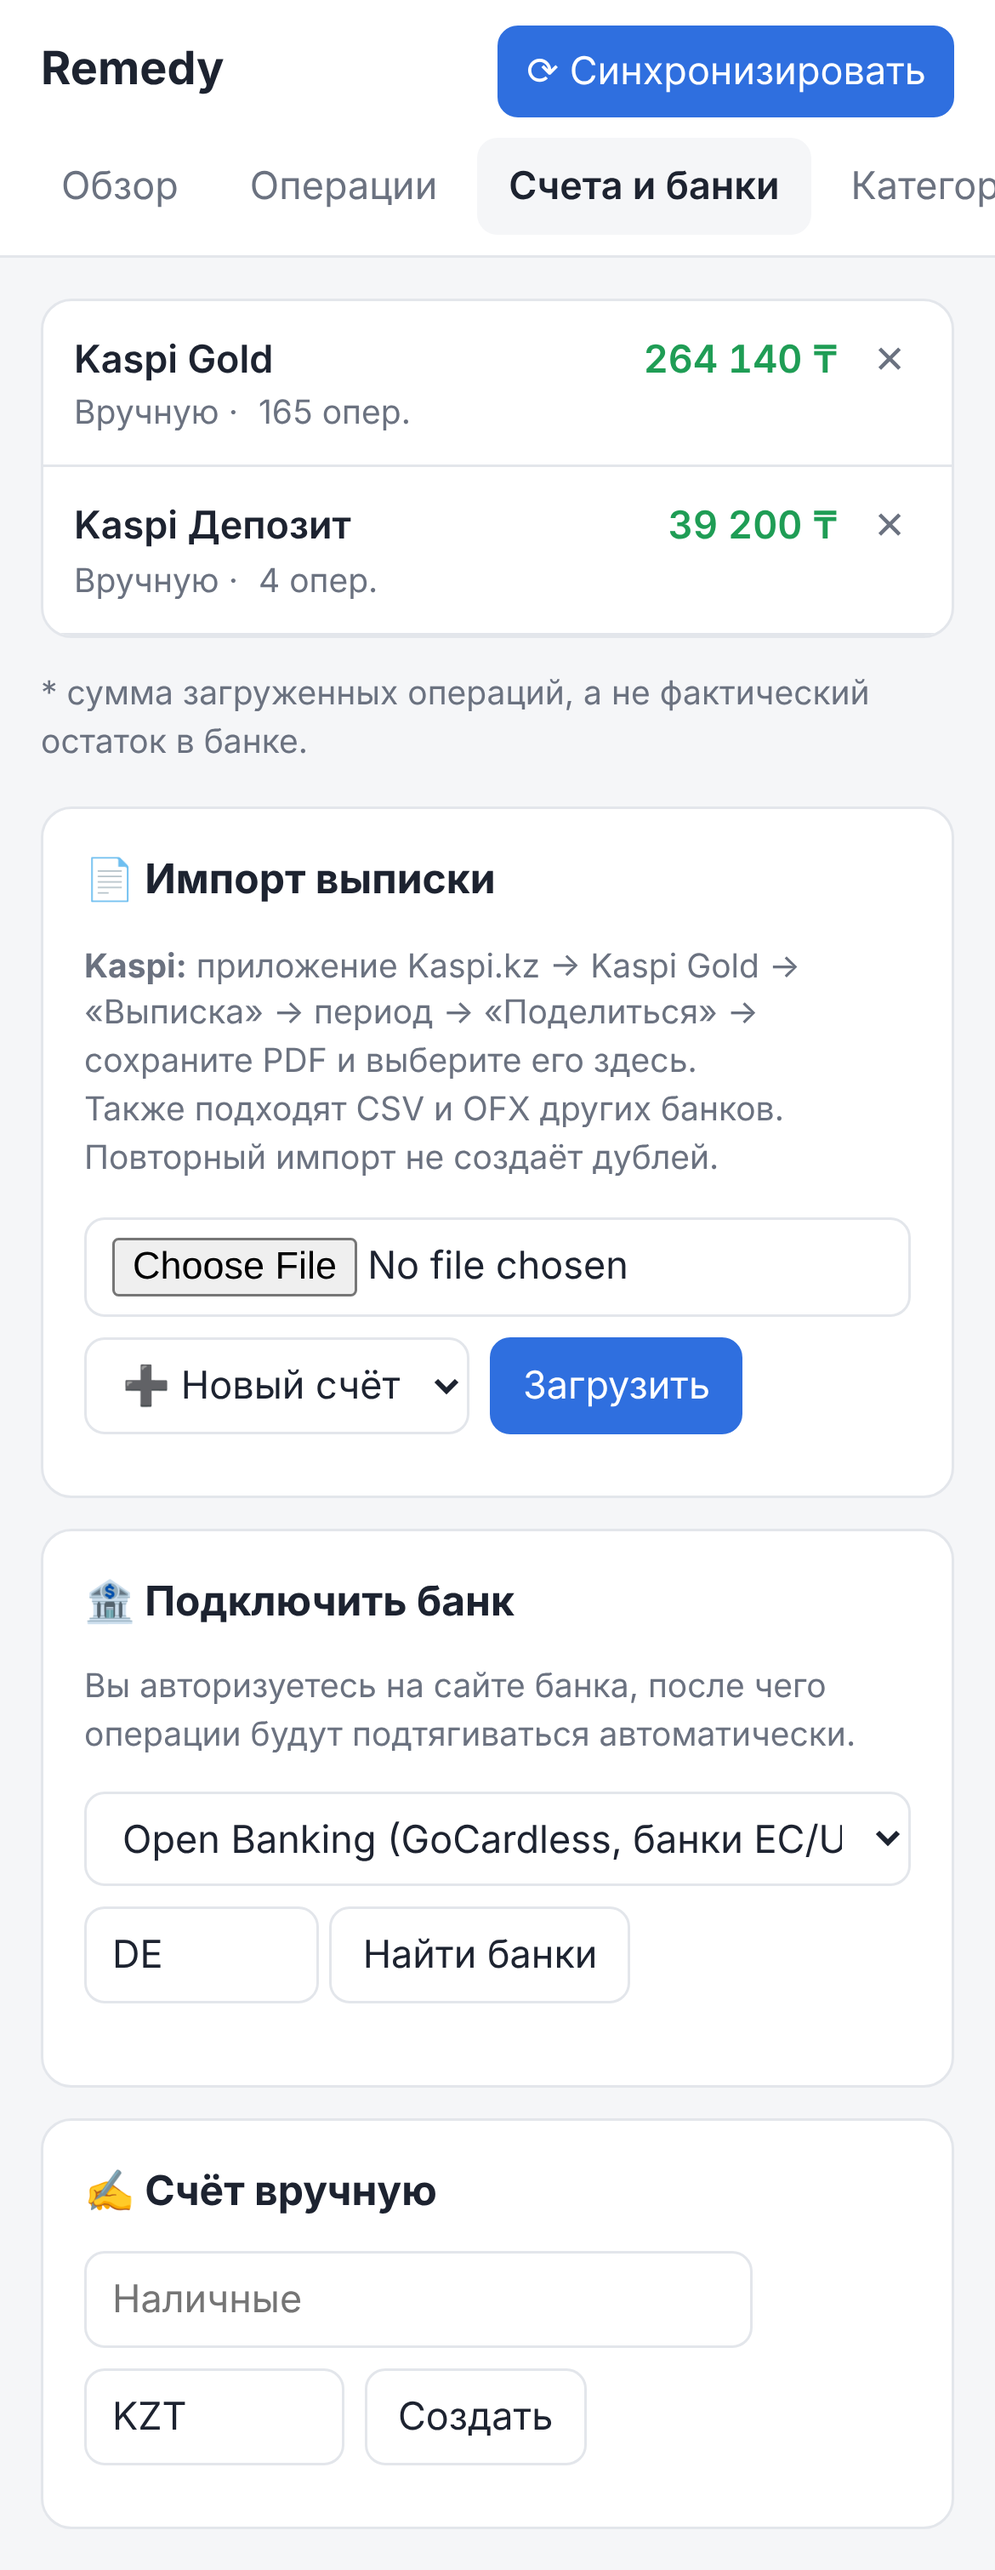
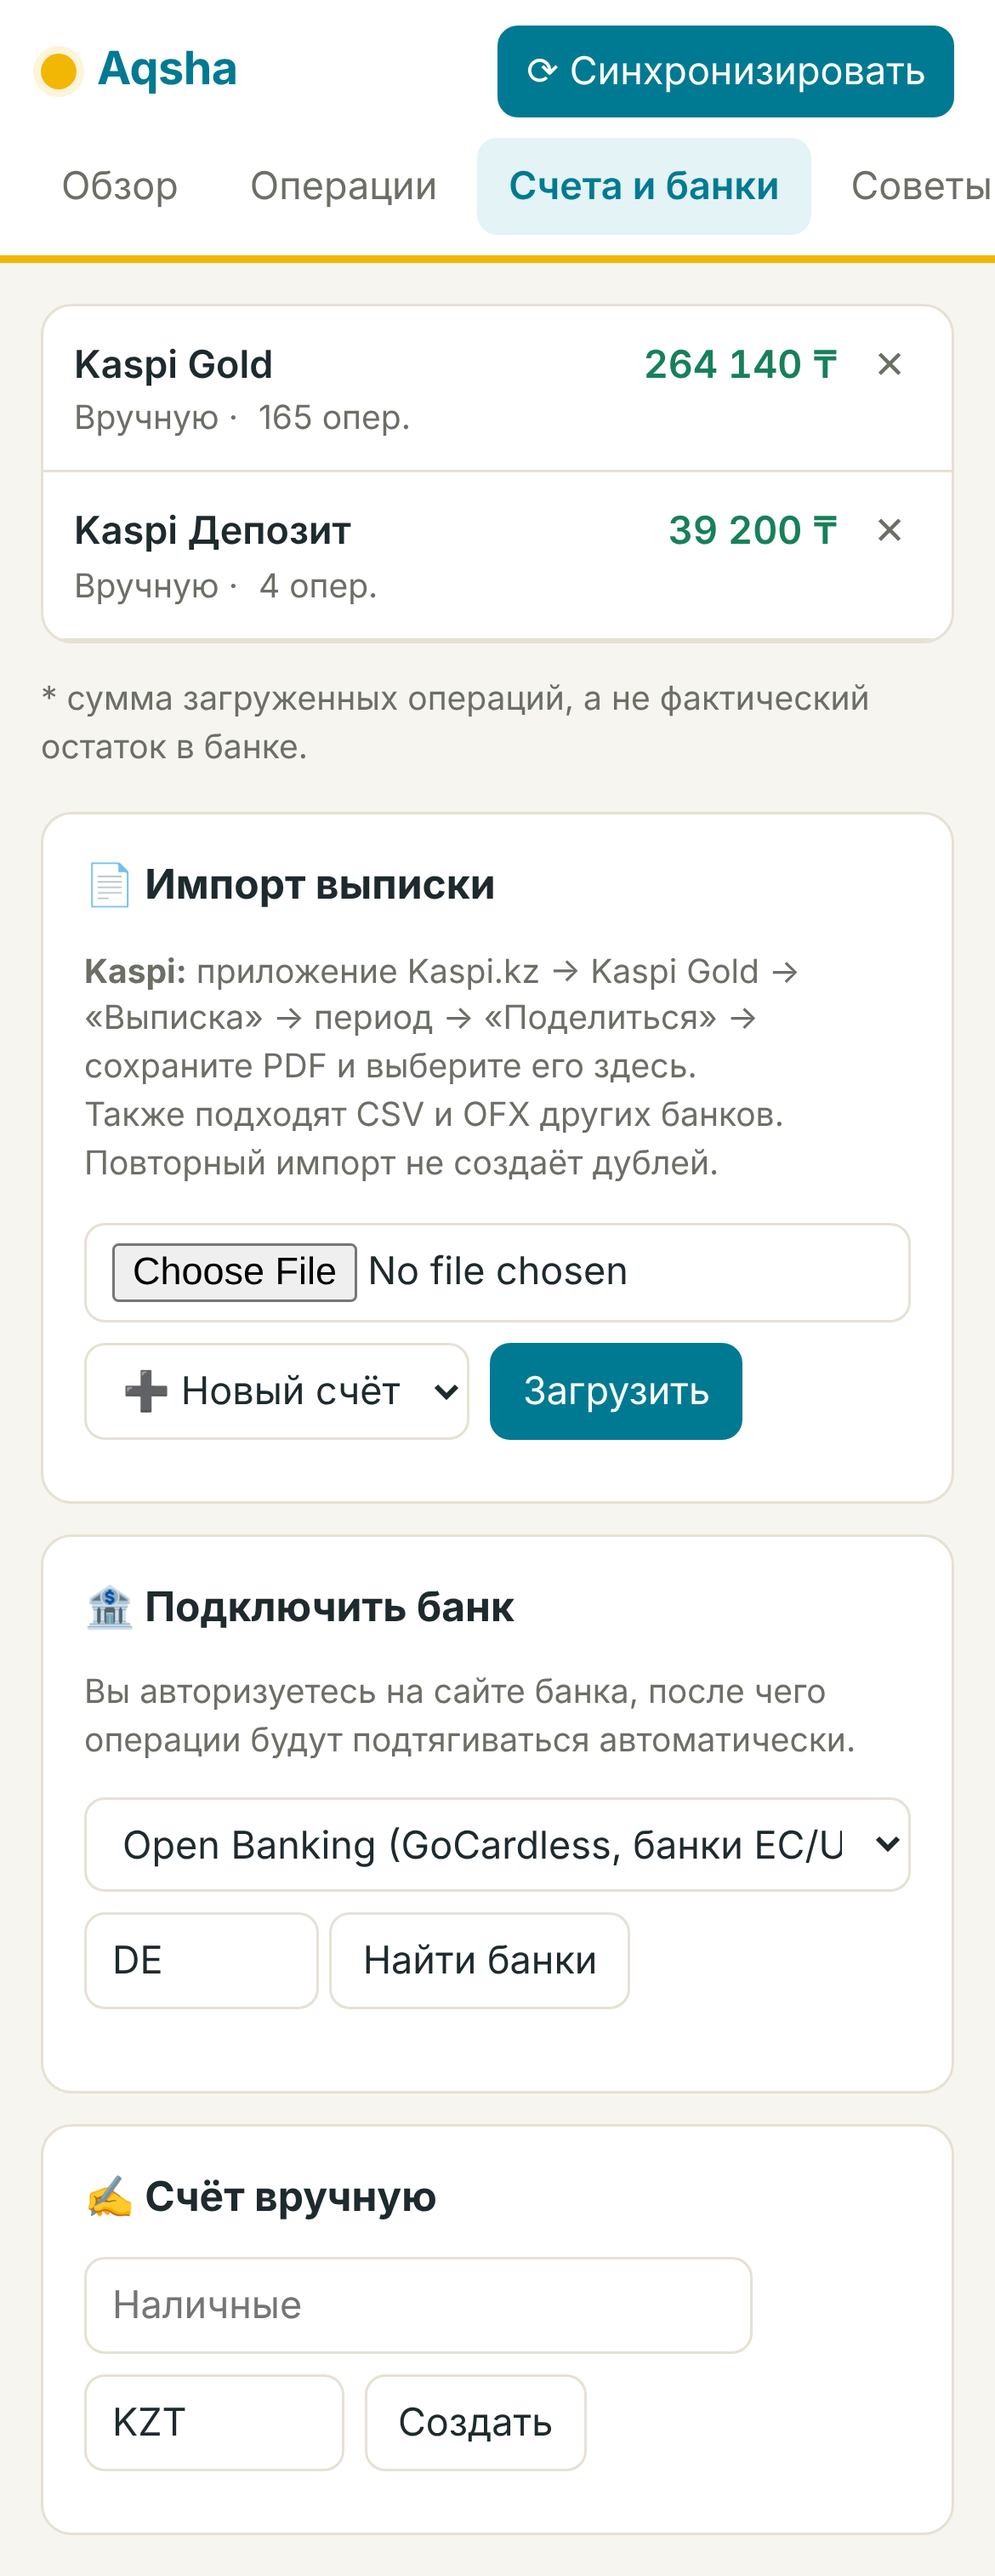
Rebrand to Aqsha with a steppe-and-gold palette
- Rename the app to Aqsha (Kazakh for 'money') in the UI, API title and README
- New palette: sky blue from the Kazakhstan flag, warm steppe sand
  background, gold accents; light and dark themes with AA contrast
- Gold header rule and sun mark (placeholder until a real icon)
- General tips use gold, personal tips use sky blue
- Settings now read AQSHA_* with REMEDY_* fallback; an existing
  remedy.db keeps being used

Claude-Session: https://claude.ai/code/session_012pkuXTJASus5BNVYpo8GZt

diff --git a/frontend/style.css b/frontend/style.css
@@ -1,20 +1,34 @@
+/* Aqsha — «степь и золото»: небо флага Казахстана, тёплый песок степи, золото солнца */
 :root {
-  --bg: #f5f6f8; --surface: #fff; --text: #1d2330; --muted: #6b7280; --border: #e3e6eb;
-  --accent: #2f6fdf; --income: #1f9d55; --expense: #d64545;
+  --bg: #f7f5ef; --surface: #ffffff; --text: #1e2a2e; --muted: #6b6f66; --border: #e7e1d3;
+  --accent: #007a92; --on-accent: #ffffff; --accent-soft: #e3f3f6;
+  --gold: #f2b705; --gold-text: #9a6e00; --gold-soft: #fdf4d9;
+  --income: #17805a; --expense: #c8462f;
 }
 @media (prefers-color-scheme: dark) {
-  :root {
-    --bg: #12151b; --surface: #1b2029; --text: #e6e9ef; --muted: #9aa3b2; --border: #2c3340;
-    --accent: #5b8ff0; --income: #3cc47c; --expense: #f06a6a;
+  :root:not([data-theme="light"]) {
+    --bg: #0e1a1f; --surface: #15262d; --text: #eaf2f3; --muted: #93a7ad; --border: #23383f;
+    --accent: #3cc8e0; --on-accent: #0e1a1f; --accent-soft: #173a44;
+    --gold: #f5c542; --gold-text: #f5c542; --gold-soft: #2c2a1c;
+    --income: #3ccb8a; --expense: #f07a62;
   }
+}
+:root[data-theme="dark"] {
+  --bg: #0e1a1f; --surface: #15262d; --text: #eaf2f3; --muted: #93a7ad; --border: #23383f;
+  --accent: #3cc8e0; --on-accent: #0e1a1f; --accent-soft: #173a44;
+  --gold: #f5c542; --gold-text: #f5c542; --gold-soft: #2c2a1c;
+  --income: #3ccb8a; --expense: #f07a62;
 }
 * { box-sizing: border-box; }
 body { margin: 0; font: 15px/1.45 system-ui, -apple-system, "Segoe UI", Roboto, sans-serif; background: var(--bg); color: var(--text); }
-header { display: flex; align-items: center; gap: 16px; flex-wrap: wrap; padding: 12px 20px; background: var(--surface); border-bottom: 1px solid var(--border); position: sticky; top: 0; z-index: 5; }
-header h1 { margin: 0; font-size: 20px; }
+header { display: flex; align-items: center; gap: 16px; flex-wrap: wrap; padding: 12px 20px; background: var(--surface); border-bottom: 3px solid var(--gold); position: sticky; top: 0; z-index: 5; }
+header h1 { margin: 0; font-size: 21px; letter-spacing: -.01em; color: var(--accent); display: flex; align-items: center; gap: 8px; }
+/* золотое «солнце» перед названием — временно, до настоящей иконки */
+header h1::before { content: ""; width: 14px; height: 14px; border-radius: 50%; background: var(--gold);
+  box-shadow: 0 0 0 3px var(--gold-soft); }
 nav { display: flex; gap: 4px; flex: 1; flex-wrap: wrap; }
 nav button { background: none; border: none; padding: 8px 12px; border-radius: 8px; color: var(--muted); }
-nav button.active { background: var(--bg); color: var(--text); font-weight: 600; }
+nav button.active { background: var(--accent-soft); color: var(--accent); font-weight: 600; }
 main { max-width: 1200px; margin: 0 auto; padding: 20px 16px; }
 .tab { display: none; }
 .tab.active { display: block; }
@@ -23,16 +37,17 @@ button, input, select { font: inherit; color: inherit; }
 input, select { background: var(--surface); border: 1px solid var(--border); border-radius: 8px; padding: 7px 10px; min-width: 0; }
 button { cursor: pointer; background: var(--surface); border: 1px solid var(--border); border-radius: 8px; padding: 7px 12px; }
 button:hover { border-color: var(--accent); }
-button.primary { background: var(--accent); border-color: var(--accent); color: #fff; }
+button.primary { background: var(--accent); border-color: var(--accent); color: var(--on-accent); }
 button.link { border: none; background: none; color: var(--muted); padding: 2px 6px; }
 button.link:hover { color: var(--expense); }
 
 .tip { display: flex; gap: 14px; align-items: flex-start; background: var(--surface); border: 1px solid var(--border);
-  border-left: 4px solid var(--accent); border-radius: 12px; padding: 14px 16px; margin-bottom: 16px; }
-.tip.personal { border-left-color: var(--income); }
+  border-left: 4px solid var(--gold); border-radius: 12px; padding: 14px 16px; margin-bottom: 16px; }
+.tip.personal { border-left-color: var(--accent); }
 .tip-icon { font-size: 28px; line-height: 1; }
 .tip-body { flex: 1; min-width: 0; }
-.tip-label { font-size: 12px; text-transform: uppercase; letter-spacing: .04em; color: var(--muted); margin-bottom: 2px; }
+.tip-label { font-size: 12px; text-transform: uppercase; letter-spacing: .04em; color: var(--gold-text); margin-bottom: 2px; }
+.tip.personal .tip-label { color: var(--accent); }
 .tip-body p { margin: 4px 0 0; color: var(--muted); }
 button.tip-next { color: var(--accent); white-space: nowrap; font-weight: 600; }
 button.tip-next:hover { color: var(--accent); text-decoration: underline; }
@@ -47,10 +62,10 @@ button.tip-next:hover { color: var(--accent); text-decoration: underline; }
 .section-title { font-size: 17px; margin: 4px 0 12px; }
 .tips-grid { display: grid; grid-template-columns: repeat(auto-fill, minmax(300px, 1fr)); gap: 12px; margin-bottom: 20px; }
 .tips-grid .tip { margin: 0; }
-.tip-cta { align-items: center; border-left-color: var(--income); }
+.tip-cta { align-items: center; border-left-color: var(--accent); }
 .chips { display: flex; gap: 6px; overflow-x: auto; padding-bottom: 8px; margin-bottom: 8px; scrollbar-width: none; }
 .chips button { white-space: nowrap; border-radius: 999px; padding: 6px 12px; font-size: 14px; }
-.chips button.active { background: var(--accent); border-color: var(--accent); color: #fff; }
+.chips button.active { background: var(--accent); border-color: var(--accent); color: var(--on-accent); }
 @media (max-width: 700px) {
   .tips-grid { grid-template-columns: 1fr; }
   .chips { margin: 0 -16px 8px; padding: 0 16px 8px; }
@@ -102,7 +117,7 @@ td select { padding: 3px 6px; max-width: 190px; }
 .add-tx[open] summary { display: none; }
 
 @media (max-width: 700px) {
-  .add-tx summary { display: inline-block; background: var(--accent); color: #fff; padding: 9px 14px; border-radius: 10px; }
+  .add-tx summary { display: inline-block; background: var(--accent); color: var(--on-accent); padding: 9px 14px; border-radius: 10px; }
   .add-tx[open] summary { display: none; }
   .filters { display: grid; grid-template-columns: 1fr 1fr; }
   .filters #f-q { grid-column: span 2; }

diff --git a/frontend/app.js b/frontend/app.js
@@ -111,6 +111,8 @@ async function loadOverview() {
 
   const exp = s.by_category.filter((c) => c.kind === "expense");
   const text = getComputedStyle(document.body).color;
+  const css = getComputedStyle(document.documentElement);
+  const incomeColor = css.getPropertyValue("--income").trim(), expenseColor = css.getPropertyValue("--expense").trim();
   chart("#chart-categories", {
     type: "doughnut",
     data: { labels: exp.map((c) => c.name), datasets: [{ data: exp.map((c) => c.total), backgroundColor: exp.map((c) => c.color), borderWidth: 0 }] },
@@ -121,8 +123,8 @@ async function loadOverview() {
     data: {
       labels: s.by_month.map((m) => new Date(m.month + "-01T00:00:00").toLocaleDateString("ru-RU", { month: "short", year: "numeric" })),
       datasets: [
-        { label: "Доходы", data: s.by_month.map((m) => m.income), backgroundColor: "#1f9d55" },
-        { label: "Расходы", data: s.by_month.map((m) => m.expense), backgroundColor: "#d64545" },
+        { label: "Доходы", data: s.by_month.map((m) => m.income), backgroundColor: incomeColor, borderRadius: 4 },
+        { label: "Расходы", data: s.by_month.map((m) => m.expense), backgroundColor: expenseColor, borderRadius: 4 },
       ],
     },
     options: {
@@ -139,7 +141,7 @@ async function loadOverview() {
 }
 
 // --- Финансовые советы ------------------------------------------------------------------
-const SEEN_KEY = "remedy.seenTips";
+const SEEN_KEY = "aqsha.seenTips";
 function seenTips() {
   try { return JSON.parse(localStorage.getItem(SEEN_KEY) || "[]"); } catch { return []; }
 }

diff --git a/frontend/index.html b/frontend/index.html
@@ -3,13 +3,14 @@
 <head>
   <meta charset="utf-8">
   <meta name="viewport" content="width=device-width, initial-scale=1">
-  <title>Remedy — учёт финансов</title>
+  <title>Aqsha — учёт финансов</title>
+  <meta name="theme-color" content="#007a92">
   <link rel="stylesheet" href="/static/style.css">
   <script src="https://cdnjs.cloudflare.com/ajax/libs/Chart.js/4.4.1/chart.umd.min.js"></script>
 </head>
 <body>
 <header>
-  <h1>Remedy</h1>
+  <h1>Aqsha</h1>
   <nav>
     <button data-tab="overview" class="active">Обзор</button>
     <button data-tab="transactions">Операции</button>

diff --git a/app/main.py b/app/main.py
@@ -1,4 +1,4 @@
-"""Remedy — учёт доходов и расходов с синхронизацией с банком. HTTP API + веб-интерфейс."""
+"""Aqsha — учёт доходов и расходов с синхронизацией с банком. HTTP API + веб-интерфейс."""
 import asyncio
 import logging
 import os
@@ -20,10 +20,10 @@ from .sync import link_connection, save_transactions, sync_account
 from .tips import general_tips, has_data, personal_tips, pick_tip
 from .tips_library import TOPICS
 
-log = logging.getLogger("remedy")
+log = logging.getLogger("aqsha")
 FRONTEND_DIR = os.path.join(os.path.dirname(__file__), "..", "frontend")
-AUTO_SYNC_HOURS = float(os.environ.get("REMEDY_AUTO_SYNC_HOURS", "6"))
-DEFAULT_CURRENCY = os.environ.get("REMEDY_CURRENCY", "KZT").upper()
+AUTO_SYNC_HOURS = float(db.env("AUTO_SYNC_HOURS", "6"))
+DEFAULT_CURRENCY = db.env("CURRENCY", "KZT").upper()
 
 
 def sync_all() -> dict:
@@ -55,7 +55,7 @@ async def lifespan(app: FastAPI):
         task.cancel()
 
 
-app = FastAPI(title="Remedy — учёт финансов", lifespan=lifespan)
+app = FastAPI(title="Aqsha — учёт финансов", lifespan=lifespan)
 
 
 def bank_error(e: Exception) -> HTTPException:

diff --git a/app/db.py b/app/db.py
@@ -3,7 +3,19 @@ import os
 import sqlite3
 from contextlib import contextmanager
 
-DB_PATH = os.environ.get("REMEDY_DB", os.path.join(os.path.dirname(__file__), "..", "remedy.db"))
+def env(name: str, default: str | None = None) -> str | None:
+    """Настройка AQSHA_<name>; старое имя REMEDY_<name> тоже понимается (приложение раньше называлось Remedy)."""
+    return os.environ.get(f"AQSHA_{name}", os.environ.get(f"REMEDY_{name}", default))
+
+
+def _default_db_path() -> str:
+    root = os.path.join(os.path.dirname(__file__), "..")
+    new, old = os.path.join(root, "aqsha.db"), os.path.join(root, "remedy.db")
+    # база, созданная до переименования, продолжает использоваться
+    return old if os.path.exists(old) and not os.path.exists(new) else new
+
+
+DB_PATH = env("DB") or _default_db_path()
 
 SCHEMA = """
 CREATE TABLE IF NOT EXISTS categories (

diff --git a/tests/test_app.py b/tests/test_app.py
@@ -236,3 +236,11 @@ def test_personal_tips_from_data(tmp_path, monkeypatch):
     assert "cafe-count" in tips and "13 заказов" in tips["cafe-count"]["title"]
     assert "subs" in tips and "Kcell" in tips["subs"]["text"]
     assert "cushion" in tips
+
+
+def test_env_new_and_old_names(monkeypatch):
+    monkeypatch.delenv("AQSHA_CURRENCY", raising=False)
+    monkeypatch.setenv("REMEDY_CURRENCY", "RUB")
+    assert db.env("CURRENCY") == "RUB"           # старое имя ещё работает
+    monkeypatch.setenv("AQSHA_CURRENCY", "KZT")
+    assert db.env("CURRENCY") == "KZT"           # новое имя важнее

diff --git a/README.md b/README.md
@@ -1,4 +1,6 @@
-# Remedy — учёт доходов и расходов с синхронизацией с банком
+# Aqsha — учёт доходов и расходов
+
+*Ақша* — по-казахски «деньги». Личные финансы в тенге: выписки Kaspi, автокатегории и советы.
 
 Веб-приложение для личных финансов: операции сами подтягиваются из банка, раскладываются по категориям,
 а на главной видно, сколько пришло, сколько ушло и на что.
@@ -49,7 +51,7 @@ uvicorn app.main:app --reload
 
 1. Приложение **Kaspi.kz** → **Kaspi Gold** (или нужный депозит) → **Выписка**.
 2. Выберите период (например, прошлый месяц) → **Поделиться** / **Сохранить** PDF.
-3. В Remedy: «Счета и банки» → «Импорт выписки» → выберите PDF → «Загрузить».
+3. В Aqsha: «Счета и банки» → «Импорт выписки» → выберите PDF → «Загрузить».
 
 Счёт «Kaspi Gold» в тенге создастся автоматически. Можно загружать выписки с перекрывающимися
 периодами — уже известные операции не задвоятся. Покупки в Magnum, Small, Galmart, Glovo, Wolt, ONAY,
@@ -97,5 +99,5 @@ tests/             тесты: `python3 -m pytest`
 Новый банк или агрегатор (Plaid, Salt Edge, TrueLayer и т.п.) подключается реализацией четырёх методов из
 `app/banks/base.py` и регистрацией в `app/banks/__init__.py`.
 
-Данные хранятся локально в файле `remedy.db`. Приложение рассчитано на одного пользователя на своём
+Данные хранятся локально в файле `aqsha.db` (если у вас уже есть `remedy.db` от прежней версии, он продолжит использоваться). Приложение рассчитано на одного пользователя на своём
 компьютере: авторизации нет, поэтому не открывайте его в интернет без reverse-proxy с паролем.
